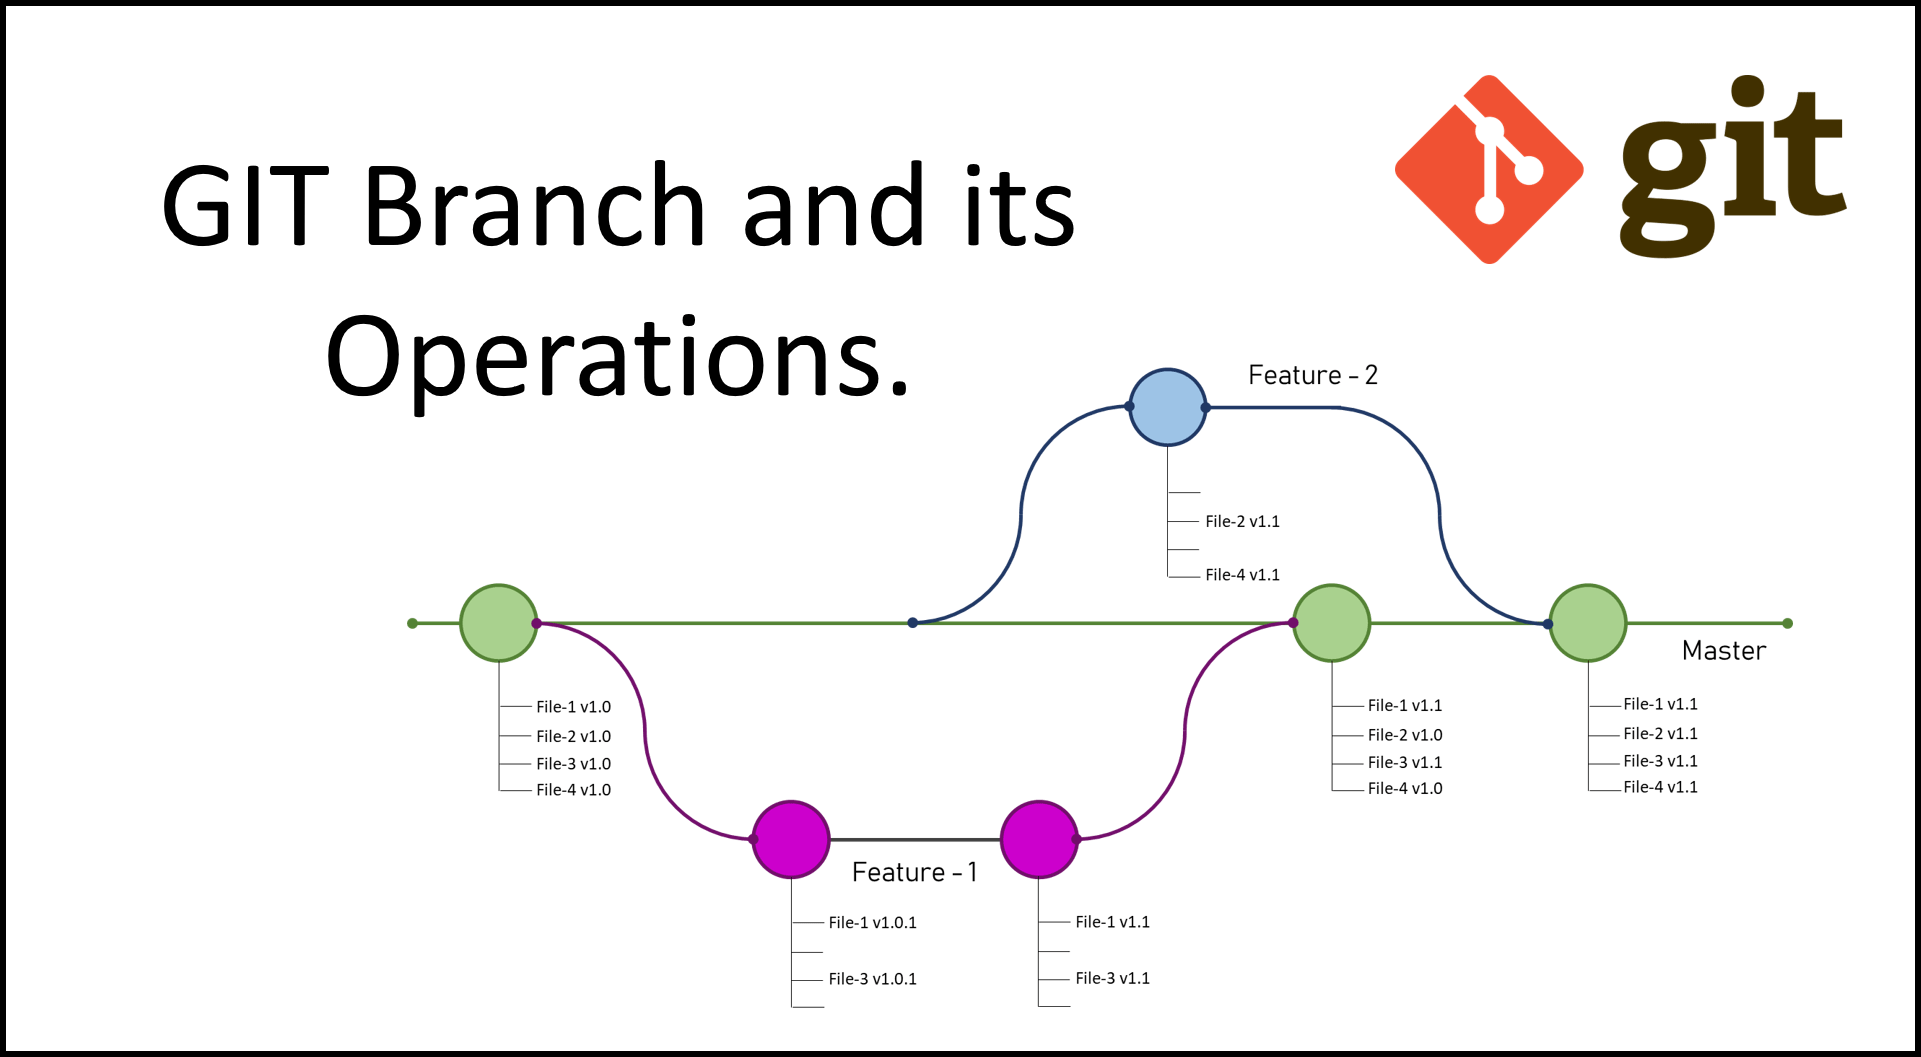
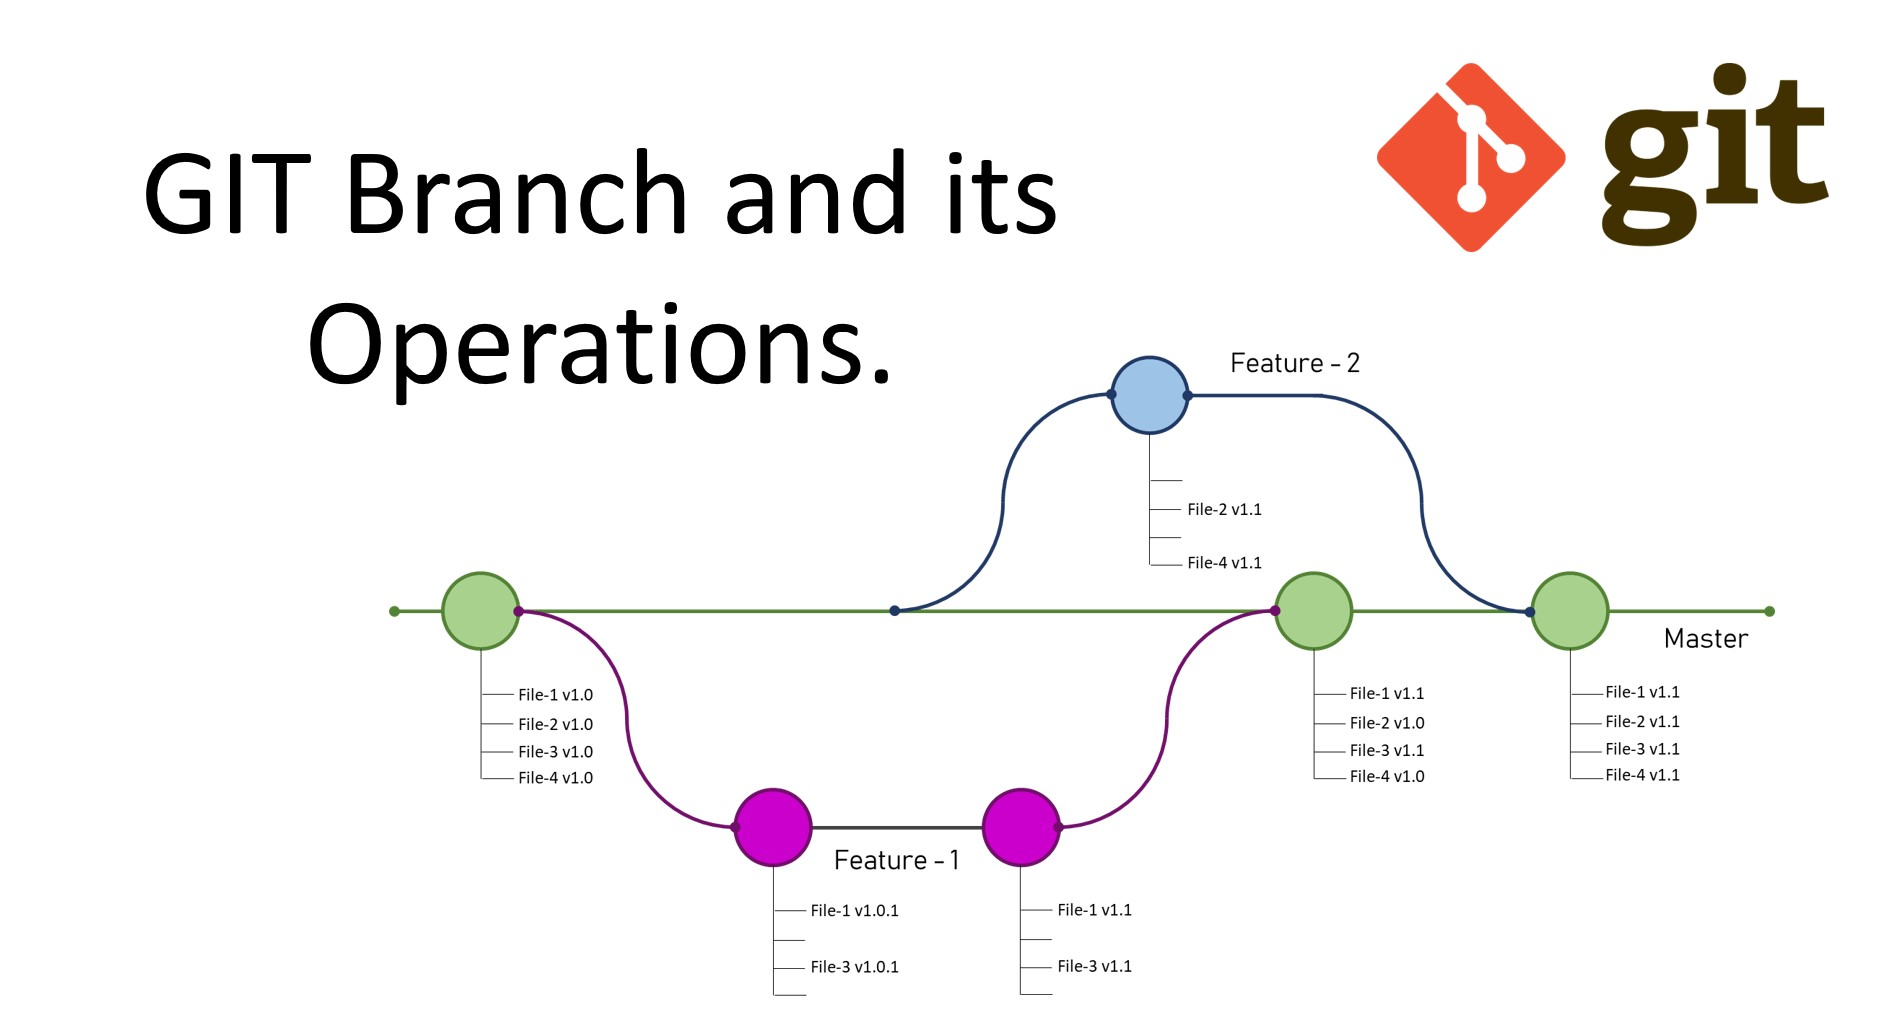
fixed spaces on id values on 3 of the images replace divs with sections removed borders on all the links eddited git branch image

diff --git a/Wireframe/index.html b/Wireframe/index.html
@@ -1,60 +1,54 @@
 <!DOCTYPE html>
 <html lang="en">
-  <head>
-    <meta charset="UTF-8" />
-    <meta name="viewport" content="width=device-width, initial-scale=1.0" />
-    <title>Wireframe</title>
-    <link rel="stylesheet" href="style.css" />
-  </head>
-
-  <body>
-    <div class="header">
-      <h1>MY WIREFRAME</h1>
-      <p>This coursework shows the basic use of wireframes.</p>
-    </div>
-
-    <main>
-    <div class="article1">
-      <img src="./assets/Readme1.png" id="readme img" alt="A screenshot of a README file" />
-      <h2>What is the purpose of a README file?</h2>
-      <p>
-        A README file explains the purpose , features,and usage of a project.
+    <head>
+        <meta charset="UTF-8">
+        <meta name="viewport" content="width=device-width, initial-scale=1.0">
+        <title>Wireframe</title>
+        <link rel="stylesheet" href="style.css">
+    </head>
+    <body>
+        <section class="header">
+            <h1>MY WIREFRAME</h1>
+            <p>This coursework shows the basic use of wireframes.</p>
+        </section>
+        <main>
+            <section class="article1">
+                <img src="./assets/Readme1.png" id="readme-img" alt="A screenshot of a README file">
+                <h2>What is the purpose of a README file?</h2>
+                <p>
+                    A README file explains the purpose, features, and usage of a project.
         It's often the first thing users or developers read to understand how to
         use or contribute to the project.
-      </p>
-      <a href="https://www.makeareadme.com/">READ MORE</a>
-    </div>
-
-    <div class="article-container">
-      <div class="article2">
-        <img src="./assets/wireframe1.png" id="wireframe img" alt="A screenshot of a wireframe" />
-        <h2>What is the purpose of wireframe?</h2>
-        <p>
-          A wireframe is a basic visual guide used in UI/UX design to outline
+                </p>
+                <a href="https://www.makeareadme.com/" class="read-more">READ MORE</a>
+            </section>
+            <section class="article-container">
+                <section class="article2">
+                    <img src="./assets/wireframe1.png" id="wireframe-img" alt="A screenshot of a wireframe">
+                    <h2>What is the purpose of a wireframe?</h2>
+                    <p>
+                        A wireframe is a basic visual guide used in UI/UX design to outline
           the structure and layout of a webpage or app without focusing on
           design details like colors or images.
-        </p>
-        <a href="https://bradfrost.com/blog/post/html-wireframes/">
-          READ MORE
-        </a>
-      </div>
-
-      <div class="article3">
-        <img src="./assets/git-branch.jpg" id="git-branch img" alt="A screenshot of a Git branch" />
-        <h2>What is a branch in Git ?</h2>
-        <p>
-          A branch in Git allows developers to work on different features or
+                    </p>
+                    <a href="https://bradfrost.com/blog/post/html-wireframes/" class="read-more">
+                        READ MORE
+                    </a>
+                </section>
+                <section class="article3">
+                    <img src="./assets/git-branch.jpg" id="git-branch-img" alt="A picture of a Git branch">
+                    <h2>What is a branch in Git?</h2>
+                    <p>
+                        A branch in Git allows developers to work on different features or
           fixes independently without affecting the main codebase, enabling safe
-          collaboraton and <br />experimentation.
-        </p>
-        <a href="https://www.w3schools.com/git/git_branch.asp"> READ MORE </a>
-      </div>
-    </div>
-    </main>
-    <div class="footer">
-      <footer>
-        <a href="https://youtu.be/2hQA1ZsGAH8">Copyright Reserved. info-wireframe.</a>
-      </footer>
-    </div>
-  </body>
+          collaboration and experimentation.
+                    </p>
+                    <a href="https://www.w3schools.com/git/git_branch.asp" class="read-more"> READ MORE</a>
+                </section>
+            </section>
+        </main>
+        <footer class="footer">
+            <a href="https://youtu.be/2hQA1ZsGAH8" class="read-more">Copyright Reserved. info-wireframe.</a>
+        </footer>
+    </body>
 </html>

diff --git a/Wireframe/style.css b/Wireframe/style.css
@@ -3,13 +3,13 @@ body {
   max-width: 60%;
   margin-left: auto;
   margin-right: auto;
+  
 }
 
 .article1 img {
   width: 400px;
   height: auto;
   inline-size: 100%;
-  block-size: auto;
 }
 
 .article1 {
@@ -36,7 +36,17 @@ body {
 .article-container {
   display: flex;
   gap: 20px;
-  flex-direction: column;
+  flex: 1 1 50%;
+}
+.article3 {
+  margin-bottom: auto;
+}
+.article2 {
+  margin-top: 15px;
+}
+.read-more {
+  border: none;
+  text-decoration: none;
 }
 
 .article-container > div {
@@ -45,7 +55,6 @@ body {
 
 }
 .footer {
-  position: fixed;
   left: 0;
   bottom: 0;
   width: 100%;
